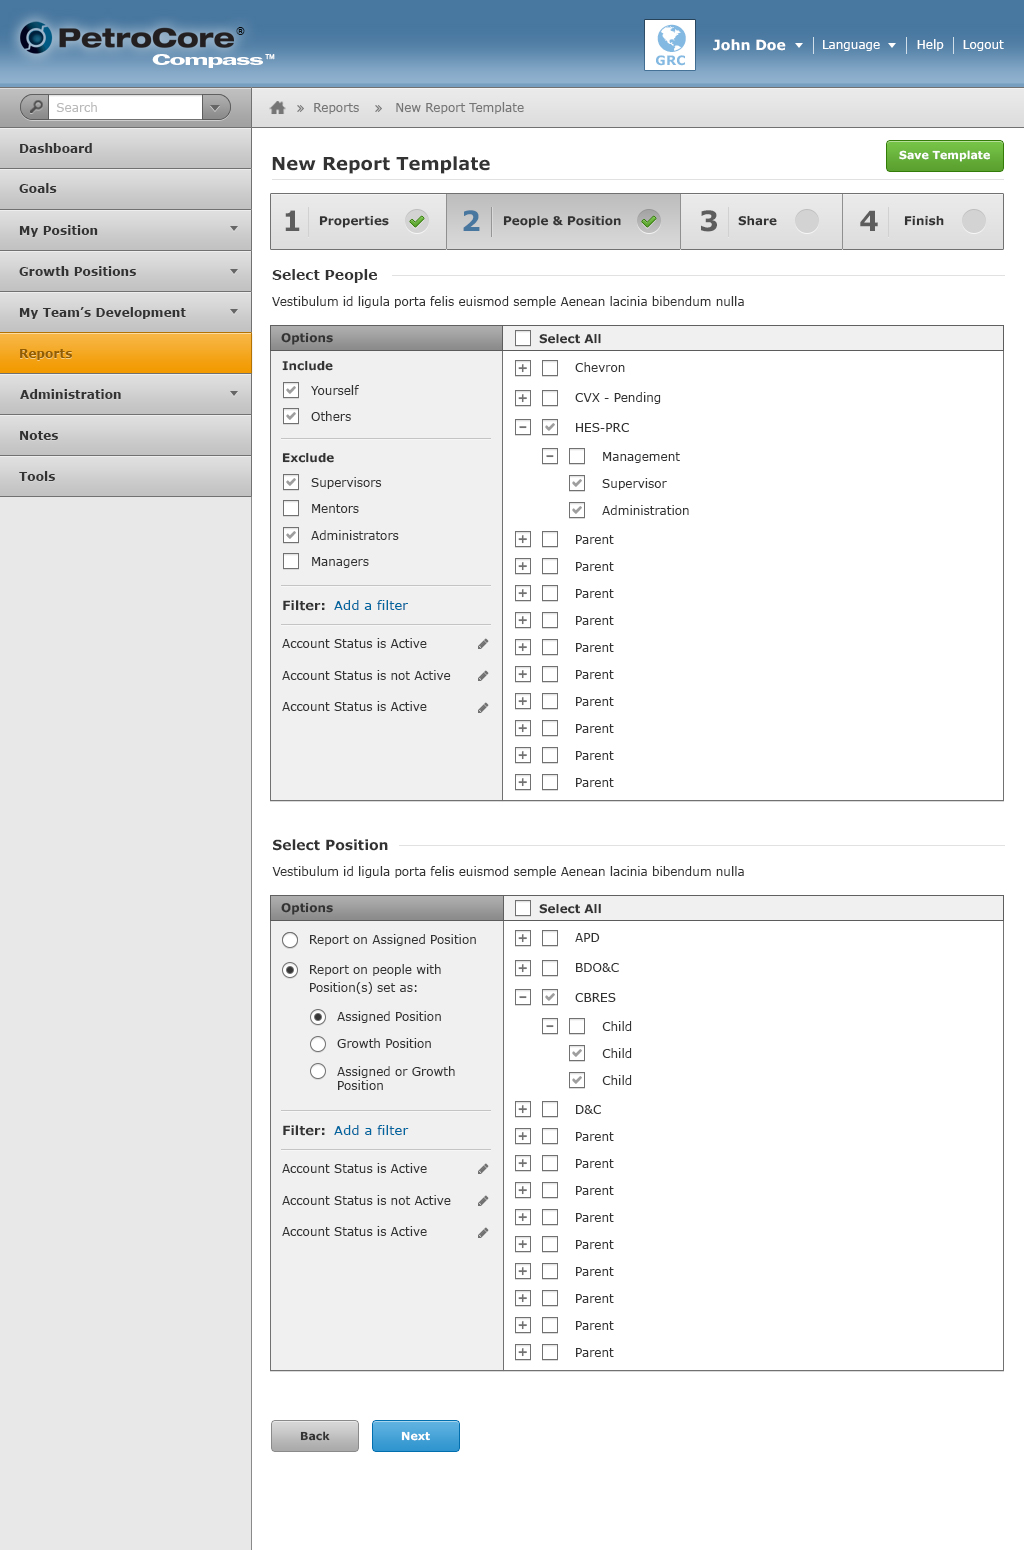
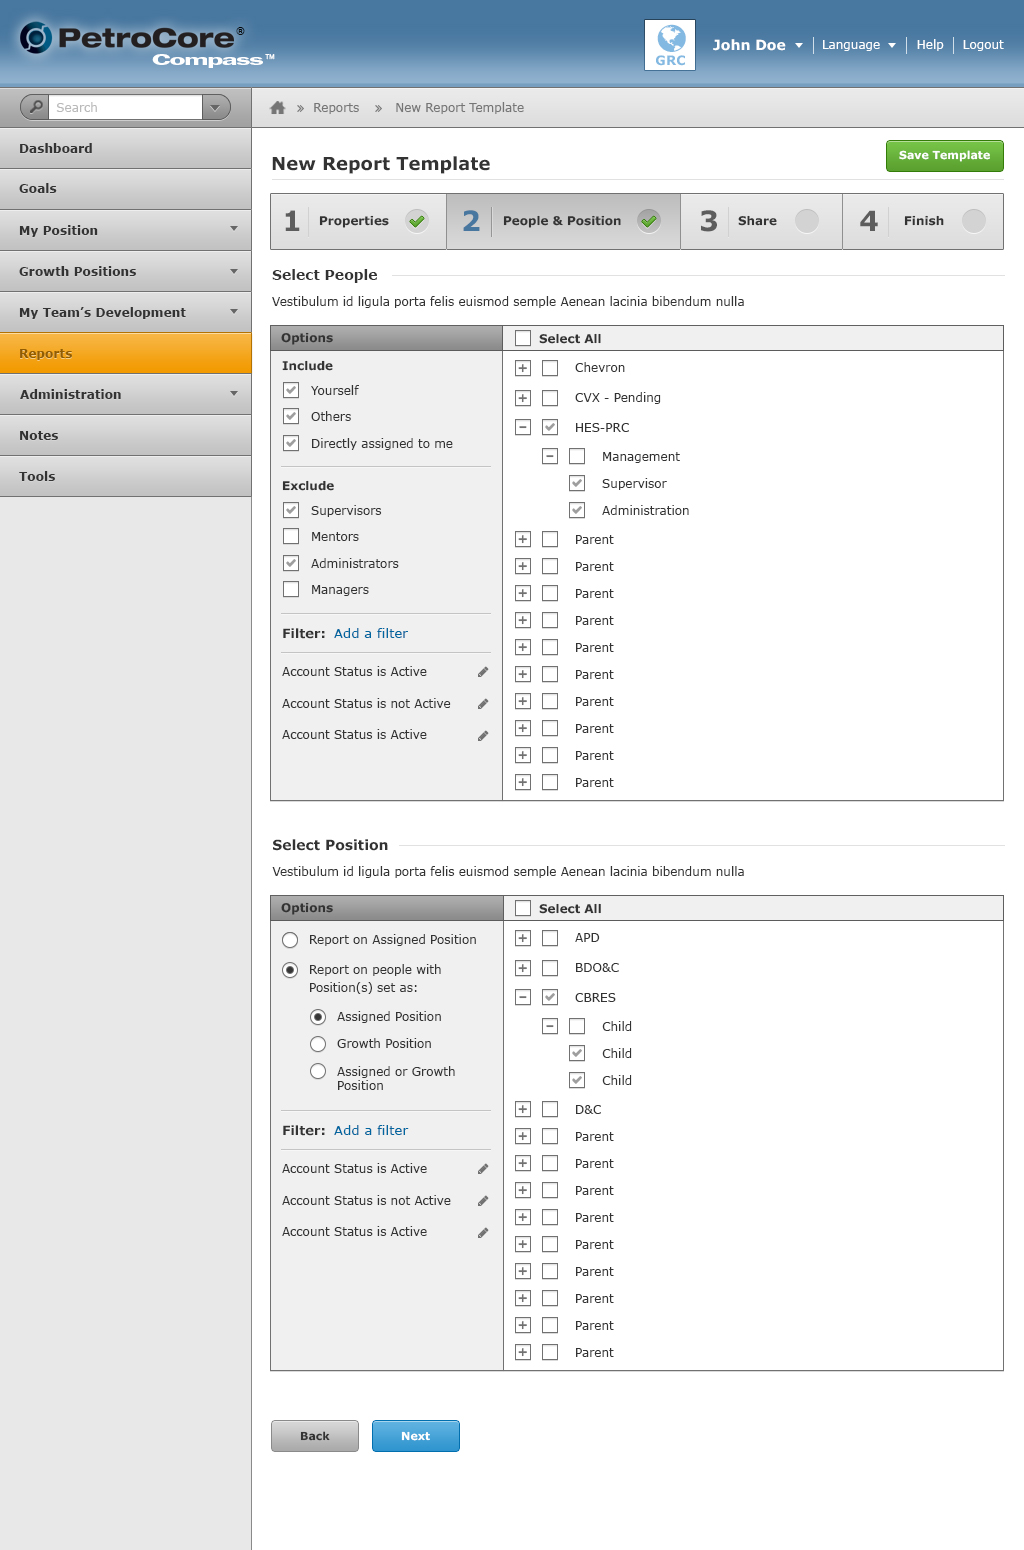
Add new filter option to Reports Step 2. Update style guide screenshots

Changed region(s): [[0.2812, 0.2787, 0.4375, 0.4645]]

diff --git a/demo/petrocore-reports-edit2.html b/demo/petrocore-reports-edit2.html
@@ -321,7 +321,8 @@
                       <div class="filters-checklist">
                           <p class="options-description"><b>Include</b></p>
                           <label for="checkbox1"><input type="checkbox" CHECKED id="checkbox1"> Yourself</label>
-                          <label for="checkbox2"><input type="checkbox" CHECKED id="checkbox2"> Others</label>                        
+                          <label for="checkbox2"><input type="checkbox" CHECKED id="checkbox2"> Others</label>  
+                          <label for="checkbox12"><input type="checkbox" id="checkbox12"> Directly assigned to me</label>                                           
                       </div>
                       
                       <hr class="petrocore-hr">              
@@ -411,14 +412,14 @@
                 <div class="row">
                 <div class="twelve columns">
                   <form style="margin-top:10px;">
-                    <div class="radio"><label for="radio1"><input name="radio1" type="radio" id="radio1" style="margin-bottom:13px;"><span class="radio"></span> Report on Assigned Position</label></div>
-                    <div class="radio"><label for="radio2"><input name="radio2" type="radio" CHECKED id="radio2" style="margin-bottom:13px;"><span class="radio"></span> Report on people with the following Position(s) set as:</label></div>
+                    <div class="radio"><label for="radio1"><input name="radioreport" type="radio" id="radio1" style="margin-bottom:13px;"><span class="radio"></span> Report on Assigned Position</label></div>
+                    <div class="radio"><label for="radio2"><input name="radioreport" type="radio" CHECKED id="radio2" style="margin-bottom:13px;"><span class="radio"></span> Report on people with the following Position(s) set as:</label></div>
                   </form>
 
                   <form>
-                    <div class="radio"><label for="radio3"><input name="radio3" type="radio" CHECKED id="radio3" style="margin-left:25px; margin-bottom:10px; margin-top:5px;"><span class="radio"></span> Assigned Position</label></div>
-                    <div class="radio"><label for="radio4"><input name="radio4" type="radio" id="radio4" style="margin-left:25px; margin-bottom:10px;"><span class="radio"></span> Growth Position</label></div>
-                    <div class="radio"><label for="radio5"><input name="radio5" type="radio" id="radio5" style="margin-left:25px; margin-bottom:10px;"><span class="radio"></span> Assigned or Growth Position</label></div>
+                    <div class="radio"><label for="radio3"><input name="radioposition" type="radio" CHECKED id="radio3" style="margin-left:25px; margin-bottom:10px; margin-top:5px;"><span class="radio"></span> Assigned Position</label></div>
+                    <div class="radio"><label for="radio4"><input name="radioposition" type="radio" id="radio4" style="margin-left:25px; margin-bottom:10px;"><span class="radio"></span> Growth Position</label></div>
+                    <div class="radio"><label for="radio5"><input name="radioposition" type="radio" id="radio5" style="margin-left:25px; margin-bottom:10px;"><span class="radio"></span> Assigned or Growth Position</label></div>
                   </form>
 
                 </div>

diff --git a/demo/petrocore-reports-new2.html b/demo/petrocore-reports-new2.html
@@ -327,7 +327,8 @@
                       <div class="filters-checklist">
                           <p class="options-description"><b>Include</b></p>
                           <label for="checkbox1"><input type="checkbox" id="checkbox1"> Yourself</label>
-                          <label for="checkbox2"><input type="checkbox" id="checkbox2"> Others</label>                        
+                          <label for="checkbox2"><input type="checkbox" id="checkbox2"> Others</label>     
+                          <label for="checkbox12"><input type="checkbox" id="checkbox12"> Directly assigned to me</label>                                           
                       </div>
                       
                       <hr class="petrocore-hr">              
@@ -418,13 +419,13 @@
               <form style="margin-top:10px;">
                 <div class="row">
                 <div class="twelve columns">
-                  <div class="radio"><label for="radio1"><input name="radio1" type="radio" id="radio1" style="margin-bottom:13px;"><span class="radio"></span> Report on Assigned Position</label></div>
-                  <div class="radio"><label for="radio2"><input name="radio1" type="radio" id="radio2" style="margin-bottom:13px;"><span class="radio"></span> Report on people with the following Position(s) set as:</label></div>
+                  <div class="radio"><label for="radio1"><input name="radioreport" type="radio" id="radio1" style="margin-bottom:13px;"><span class="radio"></span> Report on Assigned Position</label></div>
+                  <div class="radio"><label for="radio2"><input name="radioreport" type="radio" id="radio2" style="margin-bottom:13px;"><span class="radio"></span> Report on people with the following Position(s) set as:</label></div>
                   
                   <form>
-                  <div class="radio"><label for="radio3"><input name="radio3" type="radio" id="radio3" style="margin-left:25px; margin-bottom:10px; margin-top:10px;"><span class="radio"></span> Assigned Position</label></div>
-                  <div class="radio"><label for="radio4"><input name="radio4" type="radio" id="radio4" style="margin-left:25px; margin-bottom:10px;"><span class="radio"></span> Growth Position</label></div>
-                  <div class="radio"><label for="radio5"><input name="radio5" type="radio" id="radio5" style="margin-left:25px; margin-bottom:10px;"><span class="radio"></span> Assigned or Growth Position</label></div>
+                  <div class="radio"><label for="radio3"><input name="radioposition" type="radio" id="radio3" style="margin-left:25px; margin-bottom:10px; margin-top:10px;"><span class="radio"></span> Assigned Position</label></div>
+                  <div class="radio"><label for="radio4"><input name="radioposition" type="radio" id="radio4" style="margin-left:25px; margin-bottom:10px;"><span class="radio"></span> Growth Position</label></div>
+                  <div class="radio"><label for="radio5"><input name="radioposition" type="radio" id="radio5" style="margin-left:25px; margin-bottom:10px;"><span class="radio"></span> Assigned or Growth Position</label></div>
                   </form>
 
                 </div>
